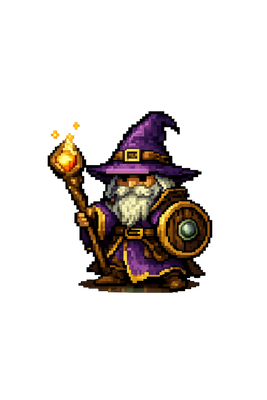
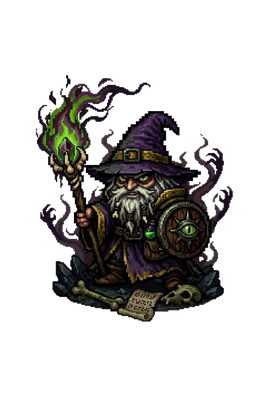
Dragon FINAL BOSS only, fix dragon whitespace, new wizard sprite
- Dragon removed from regular waves (FINAL BOSS only)
- Dragon: 1163 interior white pixels removed (wing/neck gaps)
- Wizard: replaced with new pixel art (flood-fill transparent)

Changed region(s): [[0.1203, 0.18, 0.8722, 0.81]]

diff --git a/fret-board-quest/guitar-battle.html b/fret-board-quest/guitar-battle.html
@@ -883,10 +883,10 @@ const ENEMIES = [
 ];
 
 function pickEnemy(wave) {
-    if (gFinalDragonPhase) return ENEMIES[5];       // 仕上げ最終ボス
-    if (wave%5===0 && wave>0) return ENEMIES[5];   // ドラゴン（5波ごと）
-    if (wave%3===0 && wave>0) return ENEMIES[4];   // ウィザード（3波ごと）
-    return ENEMIES[Math.floor(Math.random()*4)];
+    if (gFinalDragonPhase) return ENEMIES[5];       // ドラゴン：FINAL BOSSのみ
+    if (wave%5===0 && wave>0) return ENEMIES[4];   // ウィザード（5波ごと）
+    if (wave%3===0 && wave>0) return ENEMIES[3];   // スケルトン（3波ごと）
+    return ENEMIES[Math.floor(Math.random()*3)];   // slime/bat/goblin
 }
 
 // ── 出題 ──────────────────────────────────────────────────────